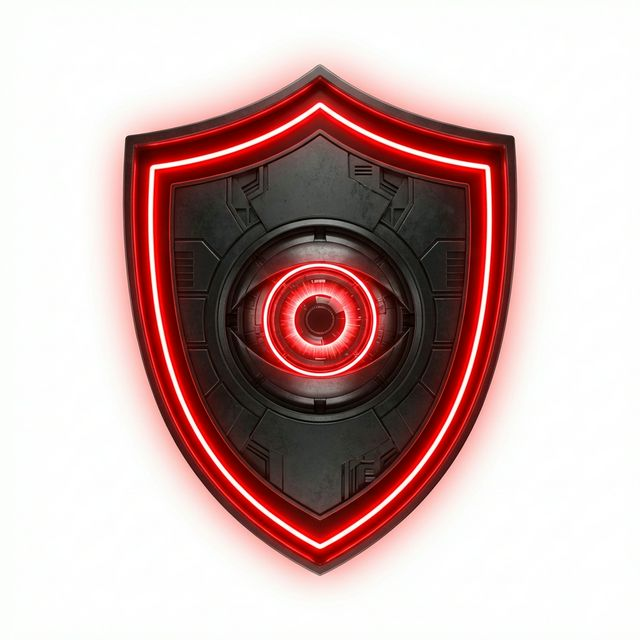
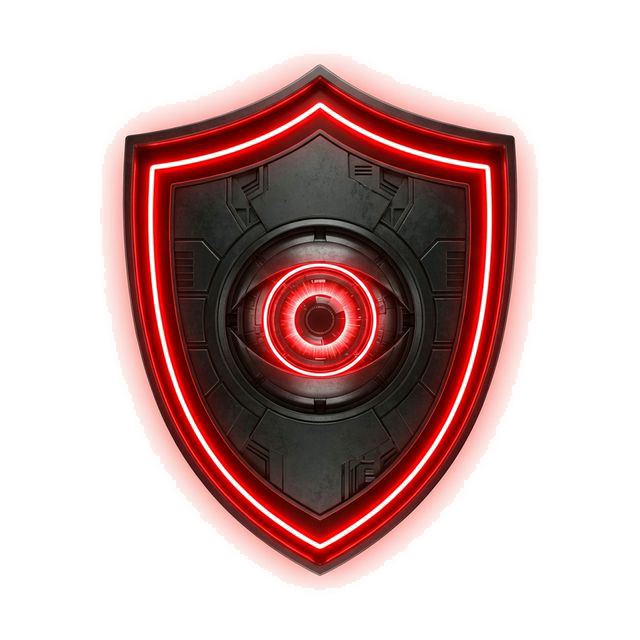
Checked command status: feat: Adiciona a imagem `brasao_olho_16_neon.png` e scripts para remover seu fundo branco.

Changed region(s): [[0.75, 0.2812, 0.7812, 0.375], [0.2188, 0.2812, 0.25, 0.375], [0.2188, 0.4375, 0.25, 0.4688]]

diff --git a/remove_bg.js b/remove_bg.js
@@ -1,0 +1,29 @@
+const Jimp = require('jimp');
+
+async function removeWhiteBackground() {
+    console.log("Reading image...");
+    try {
+        const image = await Jimp.read('public/brasao_olho_16_neon.png');
+
+        console.log("Processing pixels...");
+        image.scan(0, 0, image.bitmap.width, image.bitmap.height, function (x, y, idx) {
+            const red = this.bitmap.data[idx + 0];
+            const green = this.bitmap.data[idx + 1];
+            const blue = this.bitmap.data[idx + 2];
+
+            // Define tolerance for white (e.g. > 230)
+            if (red > 220 && green > 220 && blue > 220) {
+                // If it's pure white or very light gray, remove it
+                this.bitmap.data[idx + 3] = 0; // alpha to 0
+            }
+        });
+
+        console.log("Writing image to public/brasao_olho_16_neon.png...");
+        await image.writeAsync('public/brasao_olho_16_neon.png');
+        console.log("Done.");
+    } catch (err) {
+        console.error("Error processing image: ", err);
+    }
+}
+
+removeWhiteBackground();
